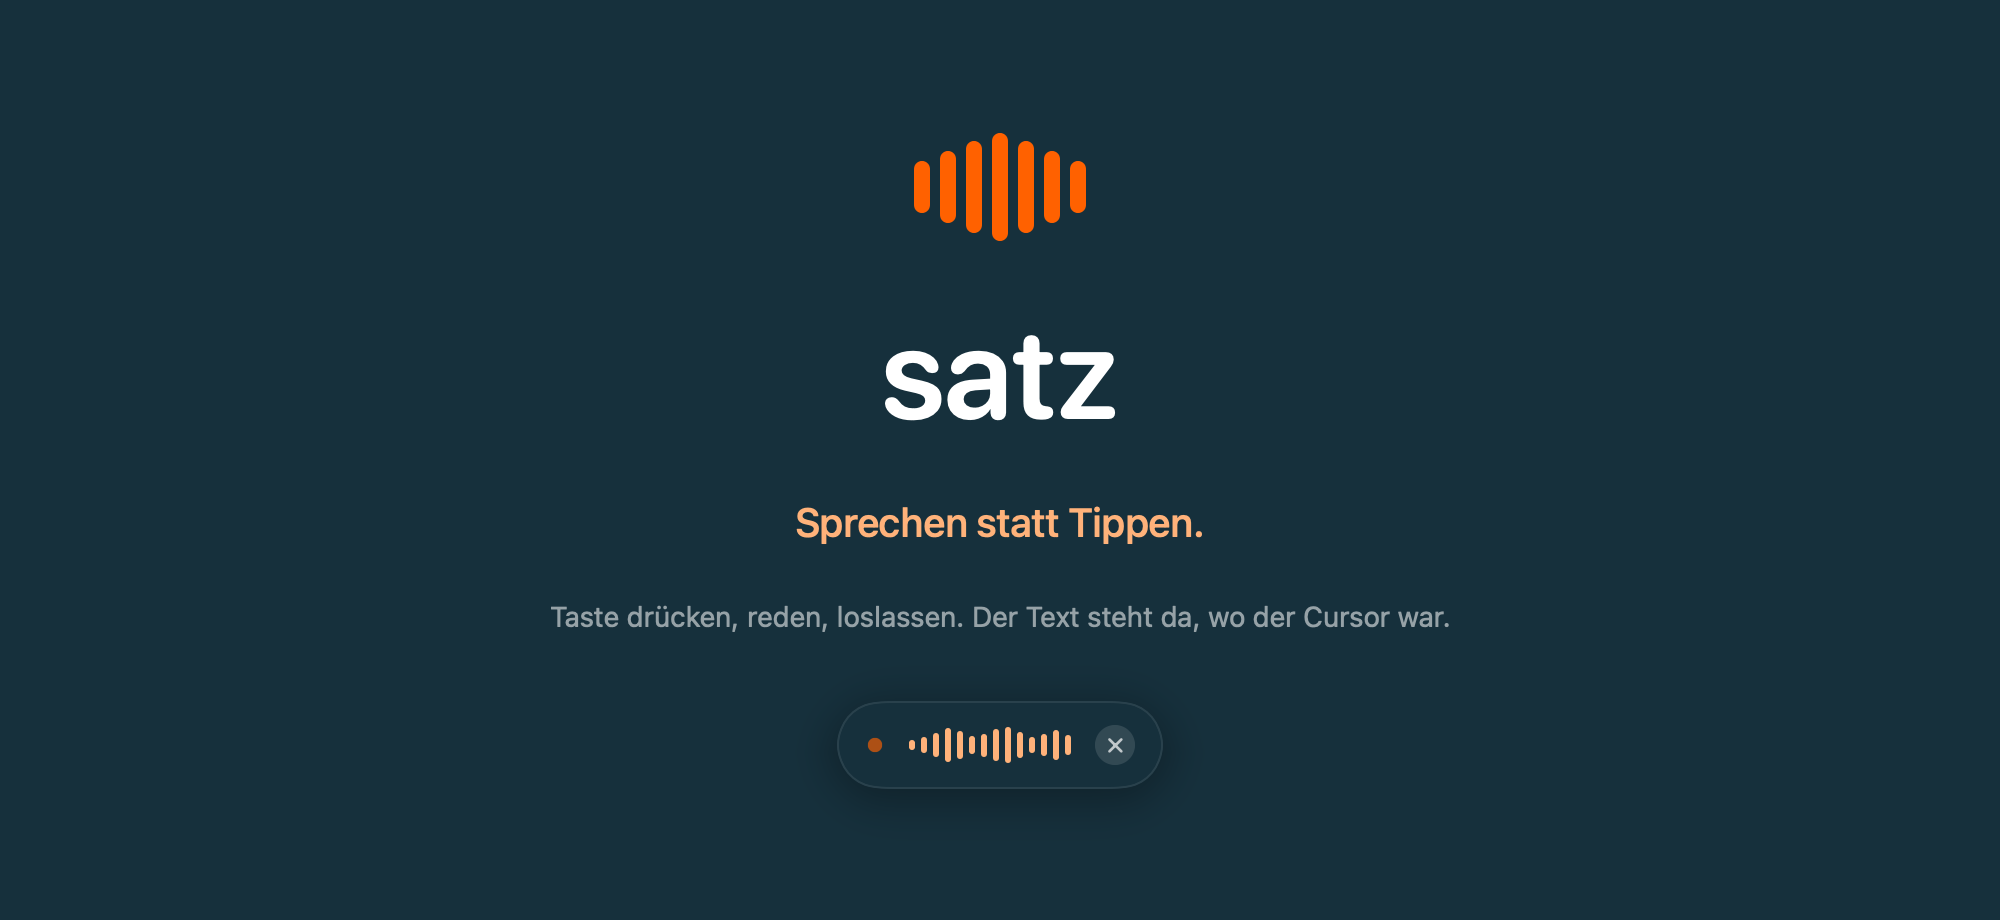
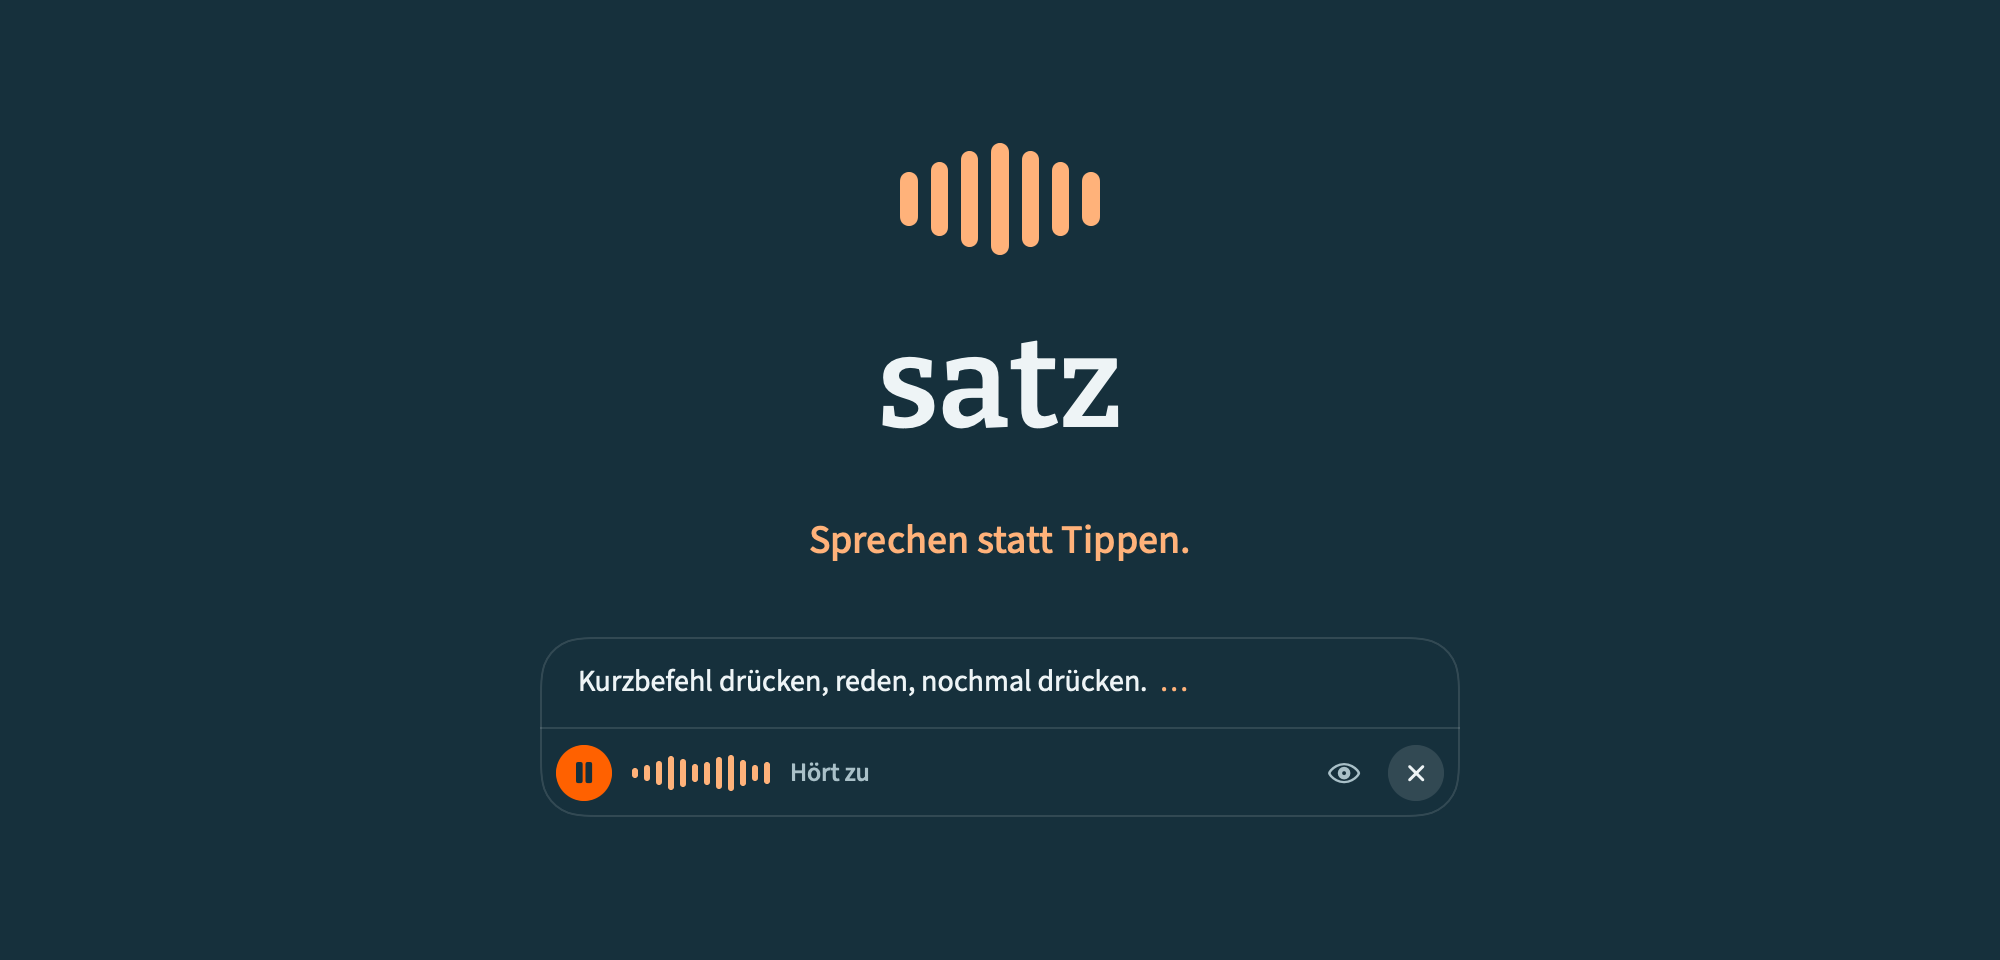
README and hero for the card, MAI and Ersetzungen
Describes how dictating works now, why satz never cuts audio, the
providers and their request formats, where keys live and why, and the
test mode. The hero draws the real card. CI badge removed while CI is
off.

diff --git a/README.md b/README.md
@@ -1,8 +1,7 @@
 <div align="center">
 
-<img src="assets/hero.png" alt="satz. Sprechen statt Tippen. Press a key, talk, let go. The text is where your cursor was." width="100%">
+<img src="assets/hero.png" alt="satz. Sprechen statt Tippen. A dark card with dictated text above a waveform." width="100%">
 
-[![CI](https://github.com/dpa-plus/satz/actions/workflows/ci.yml/badge.svg)](https://github.com/dpa-plus/satz/actions/workflows/ci.yml)
 [![License](https://img.shields.io/badge/license-MIT-ff6100)](LICENSE)
 [![Platform](https://img.shields.io/badge/platform-macOS%2014%2B-ff6100)](#requirements)
 [![Swift](https://img.shields.io/badge/swift-6-ff6100)](Package.swift)
@@ -11,13 +10,12 @@
 
 Dictation apps keep asking for things you did not want. One will only run a
 local model and refuses to use an API at all. Another will not finish its setup
-screen until you have configured a second language model to rewrite what you
-said. Both download gigabytes before they will type a word.
+until you have configured a second language model to rewrite what you said.
 
-satz does the one thing. Press Option+Space anywhere, talk, press it again. The
-recording goes to a transcription API of your choice, and the text appears
-where your cursor already was. Nothing is downloaded, nothing runs locally, and
-no second model gets to reword you.
+satz does the one thing. Tap the right ⌘ key twice anywhere, talk, tap it
+again. The recording goes to a transcription API of your choice, and the text
+appears where your cursor was. Nothing is downloaded, nothing runs locally,
+and no second model gets to reword you.
 
 ---
 
@@ -26,91 +24,118 @@ no second model gets to reword you.
     make app
     open dist/satz.app
 
-The settings window opens by itself until satz is set up. It shows the three
-things it needs, each with the button that fixes it:
+Setup walks you through five steps: your API key, the microphone, the
+shortcut, permission to paste, and a test sentence. Steps already in place are
+skipped.
 
-1. an API key for your provider, which goes to the Keychain,
-2. the microphone,
-3. permission to paste into other applications.
+## Dictating
 
-**Probe aufnehmen** records four seconds and shows what it heard, which checks
-the first two plus your connection without pasting anything.
+A card appears at the bottom of the screen: your text on top, the controls
+below. The controls never move while the text grows.
 
-Then press **Option+Space** to start, again to stop, **Escape** to throw it
-away. The settings window is always one click away in the menu bar.
+- **Your shortcut** starts, and pressed again finishes and pastes.
+- **The microphone button** pauses so you can think. Your text appears at
+  each pause.
+- **Click anywhere in the text**, even while talking, and what you say next
+  goes there. You can also type by hand.
+- **The eye** hides the text if you only want the waveform.
+- **×** throws it away, with *Rückgängig* for five seconds and *Zurückholen*
+  in the menu bar after that.
 
-## How it works
-
-    microphone ──▶ 16 kHz mono WAV ──▶ transcription API ──▶ Command+V
-
-That is the whole pipeline. One network request per dictation, bounded by a
-timeout, with no second model in the path.
+satz never cuts your audio by itself. A sentence cut in half comes back with
+wrong words, and short pieces lose their language: in tests one came back as
+Dutch. Everything said into one spot is one recording; continuing at the same
+spot sends the whole recording again, so the model always hears the full
+context.
 
 ## Providers
 
-Anything that speaks OpenAI's transcription API works, because they all take the
-same request: `POST {base}/audio/transcriptions` with a multipart upload.
+| Provider | Default model | Request |
+|---|---|---|
+| OpenRouter | `microsoft/mai-transcribe-2` | JSON, audio inline |
+| OpenAI | `gpt-transcribe` | multipart upload |
+| Groq | `whisper-large-v3-turbo` | multipart upload |
+| Eigener (custom) | your base URL and model | multipart upload |
 
-| Provider | Default model |
-|---|---|
-| OpenAI | `gpt-transcribe` |
-| OpenRouter | `openai/gpt-transcribe` |
-| Groq | `whisper-large-v3-turbo` |
-| Eigener (custom) | your base URL and model |
+MAI-Transcribe 2 had 2.0% word errors on Artificial Analysis in September
+2026, against 3.3% for GPT Transcribe, at a third of the price. Through
+OpenRouter it gets clean mode (no "ähm", no stutters; tested to keep every word
+that carries meaning) and your Wortschatz as its phrase list. OpenRouter
+ignores the `prompt` field, which is why it gets its own request format.
 
-Each provider keeps its own key and model, so switching loses nothing. The model
-is editable, because provider model lists move faster than app releases.
+Each provider keeps its own key and model. Throttled requests are retried, as
+long as the provider asks, up to five seconds.
+
+## Ersetzungen
+
+Transcription models write spoken punctuation out as words. satz turns them
+into symbols after transcription: "Klammer auf" becomes `(`, "neue Zeile" a
+line break, and the commas the model put around them are tidied away. Add your
+own trigger words in Settings. Made-up words like "XX" work best: they never
+come up in normal speech, and satz adds them to the model's phrase list so it
+spells them the same way every time.
 
 ## What it does not do
 
-- No local models. No downloads, no model manager, no gigabytes.
-- No cleanup pass. What you said is what you get.
-- No account. Your own API key, in your own Keychain.
-- No telemetry.
+- No local models. No downloads, no model manager.
+- No cleanup pass by a second model. What you said is what you get.
+- No account and no telemetry.
 
 ## Things it gets right
 
-These are the failures that make dictation tools annoying, and what satz does
-about each:
-
 | Failure | What satz does |
 |---|---|
-| The last word gets clipped | The microphone stays open 400 ms after you release |
-| It spins forever | Every request is bounded and every failure shows on the pill |
-| The paste silently fails | Secure Input and missing permissions fall back to the clipboard, and say so |
-| Cancel still types | Cancel stops the upload; cancelled audio is never sent |
-| It steals your focus | The pill can never become the key window |
-| It pastes into the wrong app | The transcript returns to the app you were typing in |
+| The last word gets clipped | The microphone stays open 400 ms after you stop |
+| Cut audio garbles words | It never cuts on its own; see above |
+| It spins forever | Every request is bounded; failures stay in the card with *Nochmal* |
+| A dropped connection loses your speech | The audio is kept until it is sent |
+| The paste silently fails | Without permission or under Secure Input it says so and leaves the text on the clipboard |
+| It pastes into the wrong app | The text goes back to the app you started in |
 | It eats your clipboard | The clipboard is put back after pasting |
+
+## Your key
+
+On the Mac, API keys live in `~/Library/Application Support/satz/keys`, one
+file per provider, readable only by your user (0600 in a 0700 folder). Not the
+Keychain, for now: without a signing certificate every new build looks like a
+different app to the Keychain, which then asks for your password before satz
+can read its own key. With a real certificate the Keychain is the better home.
 
 ## Layout
 
-    Sources/SatzKit    audio capture, WAV, the transcription client, Keychain
-    Sources/SatzMac    the macOS app: shortcut, pill, paste, settings window
+    Sources/SatzKit    audio capture, WAV, transcription client, Ersetzungen, keys
+    Sources/SatzMac    the macOS app: shortcut, card, paste, menu, settings, setup
     Tests/             tests for SatzKit
 
-`SatzKit` is separate from day one so the planned iOS keyboard extension is
-additive rather than a rewrite. On iOS there is no global shortcut and no way
-to paste into another app, so a keyboard is the only shape that works, but the
-recording and transcription halves are the same.
+`SatzKit` is separate so an iOS keyboard extension is additive rather than a
+rewrite.
 
 ## Development
 
-    make app                        build dist/satz.app
-    make run                        build and launch
-    make test                       run the tests, offline
-    make hero                       regenerate assets/hero.png
+    make app                     build dist/satz.app
+    make run                     build and launch
+    make test                    run the tests, offline
+    make hero                    regenerate assets/hero.png
 
-    satz --snapshot <dir>           render pill.png and settings.png and exit
-    satz --demo                     show the pill driven by synthetic loudness
+    satz --snapshot <dir>        render every surface to PNGs, light and dark
+    satz --import-key openrouter <file>
+                                 store a key from a file without showing it
 
-`--snapshot` is how the interface gets looked at. It never puts a window on
-screen, needs no microphone and no screen recording permission, and captures
-every pill state at once rather than whichever one happens to be live.
+`--snapshot` never puts a window on screen and needs no permissions.
+
+**Test mode** drives a real dictation without a microphone or keyboard:
+
+    satz --test-audio a.wav:b.wav --dev-control /tmp/state.json
+
+Each recording plays the next file in real time. Commands arrive as
+distributed notifications named `plus.dpa.satz.dev` (`press`, `mic`,
+`caret:<index>`, `discard`, `undo`, `dump`, `picture`). The finished text is
+written to the state file instead of being pasted, so a test can never type
+into the app you are using.
 
 The live tests talk to a real endpoint and are skipped unless you supply a key:
 
-    SATZ_TEST_API_KEY=sk-... make test
+    SATZ_TEST_API_KEY=... SATZ_TEST_BASE_URL=https://openrouter.ai/api/v1 make test
 
 ## Requirements
 
